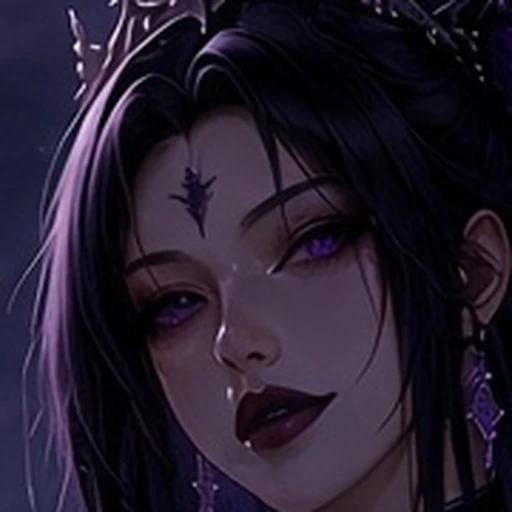
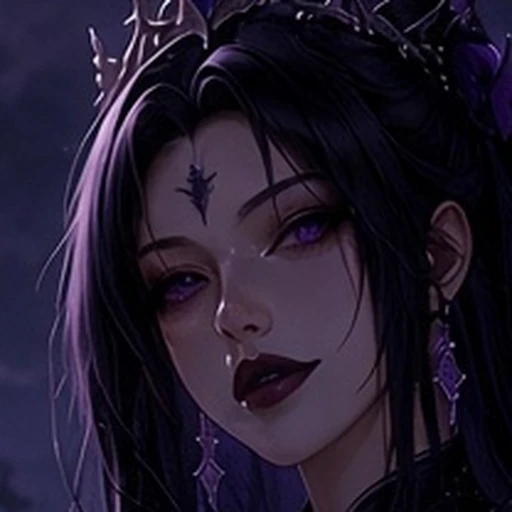
统一自走棋角色头像视觉规格

diff --git a/tools/hero-roster.test.js b/tools/hero-roster.test.js
@@ -50,7 +50,7 @@ const RESTORED_PORTRAITS = {
 };
[4 lines of base64/hex data omitted]
 const NEW_FOUR_HEROES = {
   ziling: {
     name: '紫绫影姬',
@@ -90,10 +90,11 @@ const NEW_FOUR_HEROES = {
     mainMult: 1.2,
     buffAtkMult: 1.35,
     buffHits: 2,
+    avatar: 'assets/battle/avatars/molan.webp?v=2',
     size: { width: 1080, height: 1920 },
[4 lines of base64/hex data omitted]
   },
   qinglan: {
     name: '晴岚游侠',
@@ -102,11 +103,11 @@ const NEW_FOUR_HEROES = {
     skillName: '流风逐影',
     skillKind: 'single',
     mainMult: 1.75,
-    avatar: 'assets/battle/avatars/qinglan.webp?v=2',
+    avatar: 'assets/battle/avatars/qinglan.webp?v=3',
     size: { width: 1080, height: 1920 },
[4 lines of base64/hex data omitted]
   }
 };
 const PREVIOUS_IDS = ['lanyi', 'cloak', 'saintess', 'miko', 'shuanghua', 'sweetmaid', 'jianghua', 'qingkui'];
@@ -116,6 +117,25 @@ const ALL_16_IDS = ALL_15_IDS.concat(['youming']);
 const MAIN = '6c873b5cbed5270ffde62175d059a16521d2bd24';
 const MERGED = '926d09b2171352fe91be532a21b0b737b86678d9';
 const YOUMING_BASE = '5251f0d17f609a05b0de8ae71398ae453f46159c';
+const AVATAR_UNIFY_BASE = 'b92d7c4c0b1a5742aca529446e8336dafd178db0';
+const UNIFIED_AVATARS = {
[16 lines of base64/hex data omitted]
+};
 const FREE_ADDED = ['yueshi', 'ziling', 'honglian', 'molan', 'qinglan', 'fenxiao', 'shuangchen', 'youming'];
 const ASSET_UNCHANGED_IDS = ['lanyi', 'cloak', 'saintess', 'miko', 'shuanghua', 'sweetmaid', 'jianghua', 'qingkui', 'honglian', 'molan', 'qinglan'];
[1 lines of base64/hex data omitted]
@@ -308,14 +328,20 @@ mainConfig.HEROES.forEach((hero) => {
 ASSET_UNCHANGED_IDS.forEach((id) => {
   const now = heroes.find((hero) => hero.id === id);
   const prev = mainById[id];
-  assert.deepStrictEqual(now, prev, `${id} 完整配置被改动`);
+  const u = UNIFIED_AVATARS[id];
+  assert.deepStrictEqual(withoutAssets(now), withoutAssets(prev), `${id} 除头像外配置被改动`);
+  assert.strictEqual(now.img, prev.img);
+  assert.strictEqual(now.poster, prev.poster);
+  assert.strictEqual(now.avatar, u.avatar);
   assert.deepStrictEqual(currentConfig.HERO_SKILLS[id], mainConfig.HERO_SKILLS[id], `${id} 技能被改动`);
-  ['img', 'poster', 'avatar'].forEach((key) => {
+  ['img', 'poster'].forEach((key) => {
     const rel = stripQuery(prev[key]);
     const baseBlob = git(['rev-parse', `${MAIN}:${rel}`]).trim();
     const workBlob = git(['hash-object', '--', rel]).trim();
-    assert.strictEqual(workBlob, baseBlob, `无关角色资源被改动：${rel}`);
+    assert.strictEqual(workBlob, baseBlob, `无关角色立绘资源被改动：${rel}`);
   });
+  const avRel = stripQuery(now.avatar);
+  assert.strictEqual(sha256(read(avRel)), u.sha256);
 });
 ['yueshi', 'ziling'].forEach((id) => {
   const now = heroes.find((hero) => hero.id === id);
@@ -332,11 +358,15 @@ baseConfig.HEROES.forEach((hero) => {
 PREVIOUS_IDS.forEach((id) => {
   const now = heroes.find((hero) => hero.id === id);
   const prev = baseById[id];
+  const u = UNIFIED_AVATARS[id];
   assert.ok(now, `缺少原英雄 ${id}`);
   assert.strictEqual(now.name, prev.name);
   assert.strictEqual(now.quality, prev.quality);
-  assert.strictEqual(now.avatar, prev.avatar);
+  assert.strictEqual(now.avatar, u.avatar);
   assert.deepStrictEqual(now.skill, prev.skill);
+  const avatarRel = stripQuery(now.avatar);
+  assert.strictEqual(sha256(read(avatarRel)), u.sha256);
+  assert.deepStrictEqual(imageSize(avatarRel), { width: 512, height: 512 });
   if (Object.prototype.hasOwnProperty.call(RESTORED_PORTRAITS, id)) {
     const exp = RESTORED_PORTRAITS[id];
     assert.strictEqual(now.img, exp.img);
@@ -345,18 +375,15 @@ PREVIOUS_IDS.forEach((id) => {
     assert.strictEqual(sha256(read(stripQuery(now.poster))), exp.posterSha256);
     assert.deepStrictEqual(imageSize(stripQuery(now.img)), { width: 1008, height: 1792 });
     assert.deepStrictEqual(imageSize(stripQuery(now.poster)), { width: 1008, height: 1792 });
-    const avatarRel = stripQuery(prev.avatar);
-    assert.strictEqual(git(['hash-object', '--', avatarRel]).trim(), git(['rev-parse', `${BASE}:${avatarRel}`]).trim());
-    assert.deepStrictEqual(imageSize(avatarRel), { width: 512, height: 512 });
     return;
   }
   assert.strictEqual(now.img, prev.img);
   assert.strictEqual(now.poster, prev.poster);
-  ['img', 'poster', 'avatar'].forEach((key) => {
+  ['img', 'poster'].forEach((key) => {
     const rel = stripQuery(prev[key]);
     const baseBlob = git(['rev-parse', `${BASE}:${rel}`]).trim();
     const workBlob = git(['hash-object', '--', rel]).trim();
-    assert.strictEqual(workBlob, baseBlob, `原英雄资源被改动：${rel}`);
+    assert.strictEqual(workBlob, baseBlob, `原英雄立绘资源被改动：${rel}`);
     const size = imageSize(rel);
     assert.ok(size.width > 0 && size.height > 0, rel);
   });
@@ -373,7 +400,7 @@ assert.strictEqual(yueshi.skill.mainMult, 1.2);
 assert.strictEqual(yueshi.skill.splashMult, 0);
 assert.strictEqual(yueshi.img, 'assets/hero_yueshi_hd.jpg?v=2');
 assert.strictEqual(yueshi.poster, 'assets/hero_yueshi_poster.jpg?v=2');
-assert.strictEqual(yueshi.avatar, 'assets/battle/avatars/yueshi.webp?v=7');
+assert.strictEqual(yueshi.avatar, 'assets/battle/avatars/yueshi.webp?v=8');
 assert.strictEqual(yueshi.avatarPos, '50% 22%');
 assert.strictEqual(yueshi.avatarScale, 2.6);
 assert.strictEqual(read(stripQuery(yueshi.img)).length, 524264);
@@ -389,48 +416,47 @@ assert.deepStrictEqual(ids.slice(0, 15), mergedConfig.HEROES.map((hero) => hero.
 const skillsWithoutYouming = Object.assign({}, currentConfig.HERO_SKILLS);
 delete skillsWithoutYouming.youming;
 assert.deepStrictEqual(skillsWithoutYouming, mergedConfig.HERO_SKILLS);
-let assetChecks = 0;
-heroes.slice(0, 15).forEach((hero) => {
-  const prev = mergedConfig.HEROES.find((item) => item.id === hero.id);
-  ['img', 'poster', 'avatar'].forEach((key) => {
-    const rel = stripQuery(hero[key]);
-    const sameBlob = git(['hash-object', '--', rel]).trim() === git(['rev-parse', `${MERGED}:${rel}`]).trim();
-    if (hero.id === 'yueshi' && key === 'avatar') {
-      assert.strictEqual(sameBlob, false, '月誓头像应已扶正');
-      assert.strictEqual(hero.img, prev.img);
-      assert.strictEqual(hero.poster, prev.poster);
-      const kept = Object.assign({}, hero);
-      const oldHero = Object.assign({}, prev);
-      delete kept.avatar;
-      delete oldHero.avatar;
-      assert.deepStrictEqual(kept, oldHero);
-      return;
-    }
-    assert.strictEqual(sameBlob, true, `相对 main 素材被改动：${rel}`);
-    assert.strictEqual(hero[key], prev[key], `${hero.id}.${key} 引用被改动`);
-    assetChecks += 1;
-  });
-});
-assert.strictEqual(assetChecks, 44, '15 组 HD/poster 与其余 14 张头像应与 main 字节一致');
 
-const youmingBaseConfig = loadConfigSource(git(['show', `${YOUMING_BASE}:js/config.js`]));
-assert.strictEqual(youmingBaseConfig.HEROES.length, 15);
-let base15AssetChecks = 0;
-youmingBaseConfig.HEROES.forEach((prev) => {
+const unifyBaseConfig = loadConfigSource(git(['show', `${AVATAR_UNIFY_BASE}:js/config.js`]));
+assert.strictEqual(unifyBaseConfig.HEROES.length, 16);
+assert.deepStrictEqual(currentConfig.HERO_SKILLS, unifyBaseConfig.HERO_SKILLS, '技能配置不应改动');
+let hdPosterChecks = 0;
+let unchangedAvatarChecks = 0;
+let updatedAvatarChecks = 0;
+unifyBaseConfig.HEROES.forEach((prev) => {
   const now = heroes.find((item) => item.id === prev.id);
-  assert.deepStrictEqual(now, prev, `${prev.id} 相对基线 ${YOUMING_BASE} 配置被改动`);
-  assert.deepStrictEqual(currentConfig.HERO_SKILLS[prev.id], youmingBaseConfig.HERO_SKILLS[prev.id]);
-  ['img', 'poster', 'avatar'].forEach((key) => {
+  const u = UNIFIED_AVATARS[prev.id];
+  assert.ok(u, `缺少头像规格配置：${prev.id}`);
+  const kept = Object.assign({}, now);
+  const oldHero = Object.assign({}, prev);
+  delete kept.avatar;
+  delete oldHero.avatar;
+  assert.deepStrictEqual(kept, oldHero, `${prev.id} 除 avatar 外配置不应改动`);
+  assert.strictEqual(now.avatar, u.avatar, `${prev.id} avatar 引用版本号不匹配`);
+  ['img', 'poster'].forEach((key) => {
     const rel = stripQuery(now[key]);
     assert.strictEqual(
       git(['hash-object', '--', rel]).trim(),
-      git(['rev-parse', `${YOUMING_BASE}:${rel}`]).trim(),
-      `${prev.id}.${key} 相对基线 ${YOUMING_BASE} 字节被改动`
+      git(['rev-parse', `${AVATAR_UNIFY_BASE}:${rel}`]).trim(),
+      `${prev.id}.${key} 原图字节不可改动`
     );
-    base15AssetChecks += 1;
+    hdPosterChecks += 1;
   });
+  const avRel = stripQuery(now.avatar);
+  assert.strictEqual(sha256(read(avRel)), u.sha256, `${prev.id} avatar SHA-256 不匹配`);
+  assert.deepStrictEqual(imageSize(avRel), { width: 512, height: 512 });
+  const sameAvBlob = git(['hash-object', '--', avRel]).trim() === git(['rev-parse', `${AVATAR_UNIFY_BASE}:${avRel}`]).trim();
+  if (u.changedFromHead) {
+    assert.strictEqual(sameAvBlob, false, `${prev.id} 头像应已按统一视觉规格更新`);
+    updatedAvatarChecks += 1;
+  } else {
+    assert.strictEqual(sameAvBlob, true, `${prev.id} 已协调头像字节不应改动`);
+    unchangedAvatarChecks += 1;
+  }
 });
-assert.strictEqual(base15AssetChecks, 45, '旧 15 位角色全部 45 个 HD/poster/avatar 资产字节不可改动');
+assert.strictEqual(hdPosterChecks, 32, '全部 16 位角色共 32 张 HD/poster 字节不可改动');
+assert.strictEqual(unchangedAvatarChecks, 6, '6 位已协调头像字节应保持不变');
+assert.strictEqual(updatedAvatarChecks, 10, '10 位头像应已完成视觉规格统一');
 
 function loadPortraitHeroList() {
   const sandbox = {
@@ -563,10 +589,10 @@ const XIAN_PAIR = {
     rowMult: 1.4,
     img: 'assets/hero_fenxiao_hd.jpg?v=1',
     poster: 'assets/hero_fenxiao_poster.jpg?v=1',
-    avatar: 'assets/battle/avatars/fenxiao.webp?v=1',
+    avatar: 'assets/battle/avatars/fenxiao.webp?v=2',
[4 lines of base64/hex data omitted]
   },
   shuangchen: {
     name: '霜宸冰璃',
@@ -578,10 +604,10 @@ const XIAN_PAIR = {
     splashMult: 0,
     img: 'assets/hero_shuangchen_hd.jpg?v=1',
     poster: 'assets/hero_shuangchen_poster.jpg?v=1',
-    avatar: 'assets/battle/avatars/shuangchen.webp?v=1',
+    avatar: 'assets/battle/avatars/shuangchen.webp?v=2',
[4 lines of base64/hex data omitted]
   },
   youming: {
     name: '幽冥鬼后',
@@ -593,10 +619,10 @@ const XIAN_PAIR = {
     splashMult: 0,
     img: 'assets/hero_youming_hd.jpg?v=1',
     poster: 'assets/hero_youming_poster.jpg?v=1',
-    avatar: 'assets/battle/avatars/youming.webp?v=1',
+    avatar: 'assets/battle/avatars/youming.webp?v=2',
[4 lines of base64/hex data omitted]
   }
 };
 Object.keys(XIAN_PAIR).forEach((hid) => {
@@ -965,7 +991,7 @@ assert.ok(!css.includes('.role-card.role-q-xian') || !/\.role-card\.role-q-xian[
 
 const index = text('index.html');
 assert.ok(index.includes('css/style.css?v=84'));
-assert.ok(index.includes('js/config.js?v=71'));
+assert.ok(index.includes('js/config.js?v=72'));
 assert.ok(index.includes('js/state.js?v=32'));
 assert.ok(index.includes('js/battle.js?v=35'));
 assert.ok(index.includes('js/game.js?v=45'));

diff --git a/js/config.js b/js/config.js
@@ -943,7 +943,7 @@
         id: 'cloak',
         name: '魔灵光',
         quality: 'xian',
-        avatar: 'assets/battle/avatars/cloak.webp?v=4',
+        avatar: 'assets/battle/avatars/cloak.webp?v=5',
         avatarPos: '55% 15%',
         avatarScale: 2.6,
         img: 'assets/hero_mlg_dawn_hd.jpg?v=4',
@@ -987,7 +987,7 @@
         id: 'miko',
         name: '灼樱巫女',
         quality: 'di',
-        avatar: 'assets/battle/avatars/miko.webp?v=5',
+        avatar: 'assets/battle/avatars/miko.webp?v=6',
         avatarPos: '57% 14%',
         avatarScale: 2.6,
         img: 'assets/hero_miko_dawn_hd.jpg?v=4',
@@ -1053,7 +1053,7 @@
         id: 'jianghua',
         name: '绛华倾城',
         quality: 'di',
-        avatar: 'assets/battle/avatars/jianghua.webp?v=2',
+        avatar: 'assets/battle/avatars/jianghua.webp?v=3',
         avatarPos: '50% 18%',
         avatarScale: 2.6,
         img: 'assets/hero_jianghua_hd.jpg?v=2',
@@ -1076,7 +1076,7 @@
         name: '晴葵灵姬',
         quality: 'tian',
         unlockCond: '踏入仙途（初始免费解锁）',
-        avatar: 'assets/battle/avatars/qingkui.webp?v=4',
+        avatar: 'assets/battle/avatars/qingkui.webp?v=5',
         avatarPos: '58% 13%',
         avatarScale: 2.6,
         img: 'assets/hero_qingkui_hd.jpg?v=2',
@@ -1099,7 +1099,7 @@
         name: '月誓灵姝',
         quality: 'tian',
         unlockCond: '踏入仙途（初始免费解锁）',
-        avatar: 'assets/battle/avatars/yueshi.webp?v=7',
+        avatar: 'assets/battle/avatars/yueshi.webp?v=8',
         avatarPos: '50% 22%',
         avatarScale: 2.6,
         img: 'assets/hero_yueshi_hd.jpg?v=2',
@@ -1168,7 +1168,7 @@
         name: '墨兰执事',
         quality: 'xuan',
         unlockCond: '踏入仙途（初始免费解锁）',
-        avatar: 'assets/battle/avatars/molan.webp?v=1',
+        avatar: 'assets/battle/avatars/molan.webp?v=2',
         avatarPos: '42% 12%',
         avatarScale: 2.6,
         img: 'assets/hero_molan_hd.jpg?v=1',
@@ -1191,7 +1191,7 @@
         name: '晴岚游侠',
         quality: 'xuan',
         unlockCond: '踏入仙途（初始免费解锁）',
-        avatar: 'assets/battle/avatars/qinglan.webp?v=2',
+        avatar: 'assets/battle/avatars/qinglan.webp?v=3',
         avatarPos: '44% 15%',
         avatarScale: 2.6,
         img: 'assets/hero_qinglan_hd.jpg?v=1',
@@ -1214,7 +1214,7 @@
         name: '焚霄炎姬',
         quality: 'xian',
         unlockCond: '踏入仙途（初始免费解锁）',
-        avatar: 'assets/battle/avatars/fenxiao.webp?v=1',
+        avatar: 'assets/battle/avatars/fenxiao.webp?v=2',
         avatarPos: '50% 50%',
         avatarScale: 2.6,
         img: 'assets/hero_fenxiao_hd.jpg?v=1',
@@ -1237,7 +1237,7 @@
         name: '霜宸冰璃',
         quality: 'xian',
         unlockCond: '踏入仙途（初始免费解锁）',
-        avatar: 'assets/battle/avatars/shuangchen.webp?v=1',
+        avatar: 'assets/battle/avatars/shuangchen.webp?v=2',
         avatarPos: '50% 50%',
         avatarScale: 2.6,
         img: 'assets/hero_shuangchen_hd.jpg?v=1',
@@ -1260,7 +1260,7 @@
         name: '幽冥鬼后',
         quality: 'xian',
         unlockCond: '踏入仙途（初始免费解锁）',
-        avatar: 'assets/battle/avatars/youming.webp?v=1',
+        avatar: 'assets/battle/avatars/youming.webp?v=2',
         avatarPos: '50% 50%',
         avatarScale: 2.6,
         img: 'assets/hero_youming_hd.jpg?v=1',

diff --git a/index.html b/index.html
@@ -575,7 +575,7 @@
   </div>
 
   <script src="js/no-zoom.js?v=22"></script>
-  <script src="js/config.js?v=71"></script>
+  <script src="js/config.js?v=72"></script>
   <script src="js/equip.js?v=22"></script>
   <script src="js/state.js?v=32"></script>
   <script src="js/titles.js?v=23"></script>
